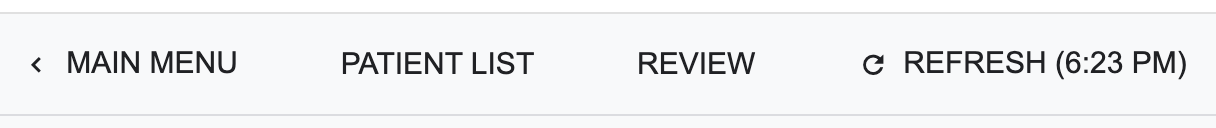
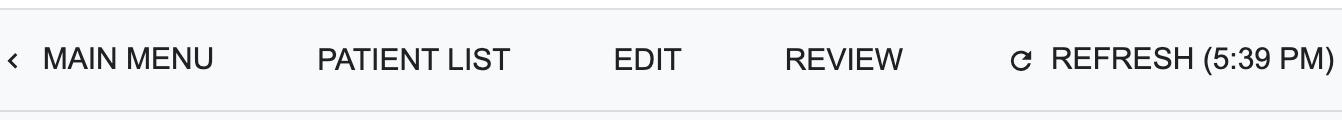
scaffolded until patient portal

Changed region(s): [[0.0, 0.375, 1.0, 0.625], [0.0, 0.875, 1.0, 0.95], [0.0, 0.05, 1.0, 0.125]]

diff --git a/docusaurus.config.ts b/docusaurus.config.ts
@@ -15,7 +15,7 @@ const config: Config = {
   },
 
   // Set the production url of your site here
-  url: "https://manual.dryeyenet.com",
+  url: "https://documentation.dryeyenet.com",
   // Set the /<baseUrl>/ pathname under which your site is served
   // For GitHub pages deployment, it is often '/<projectName>/'
   baseUrl: "/",
@@ -138,7 +138,7 @@ const config: Config = {
           ],
         },
       ],
-      copyright: `Copyright © ${new Date().getFullYear()} My Project, Inc. Built with Docusaurus.`,
+      copyright: `Copyright © ${new Date().getFullYear()} DryEyeNet, by SmartDryEyes GmbH.`,
     },
     prism: {
       theme: prismThemes.github,

diff --git a/src/css/custom.css b/src/css/custom.css
@@ -29,6 +29,14 @@
   --docusaurus-highlighted-code-line-bg: rgba(0, 0, 0, 0.3);
 }
 
+h1 {
+  font-size: 2.35rem !important;
+}
+
+h2 {
+  font-size: 1.75rem !important;
+}
+
 .navbar__logo {
   margin-right: 1rem;
 }

diff --git a/docs/patient-management/intro.md b/docs/patient-management/intro.md
@@ -1,0 +1,30 @@
+---
+sidebar_position: 1
+sidebar_label: Intro
+---
+
+# Patient Management
+
+You can create and edit patients from more than one location within **DryEyeNet**.
+
+- **Patient Dashboard**
+
+  The most straightforward way is to go to the patient dashboard. In the bottom menu, you will find the option to add a new patient.  
+  To edit an existing patient, first select the patient; the **Edit** option will then appear in the bottom menu.
+
+  Please note that in **DryEyeNet**, each patient has their own user account for accessing the patient portal.
+
+![Main menu showing the Patient Dashboard item](/img/patient-management/patMan_maiMen_en.png)
+
+After having clicked the patient dashboard option:
+
+![Select Patient within Patient Dashboard](/img/patient-management/patMan_selPat_en.png)
+
+Once selected the patient you will have all the actions available over the patient:
+
+![Actions available over the patient](/img/patient-management/patMan_selPat_actions_en.png)
+
+- **Substeps in Workflows**
+
+  When creating a new **Base Survey**, the first step is to select an existing patient or create a new one.  
+  This provides access to the option to create a patient directly from the bottom menu.

diff --git a/docs/patient-dashboard/patient-doc.md b/docs/patient-dashboard/patient-doc.md
@@ -1,0 +1,23 @@
+---
+sidebar_position: 2
+sidebar_label: Patient Documentation
+---
+
+# Patient Documentation
+
+After clicking **Patient Documentation**, a list of all documented patient data is displayed.
+
+![Patient documentation list](/img/patient-dashboard/patDas_docList_en.png)
+
+# Document Actions
+
+Once a document is selected, a set of actions becomes available depending on the document type. These actions include:
+
+- **Review**
+- **Edit**
+
+![Patient document actions](/img/patient-dashboard/patDas_docActions_en.png)
+
+When clicking **Review**, a viewer adapted to the document type will appear, allowing you to browse the available data.
+
+![Patient document viewer](/img/patient-dashboard/patDas_docOculus_en.png)

diff --git a/docs/general-basics/core-workflows-overview.md b/docs/general-basics/core-workflows-overview.md
@@ -2,16 +2,15 @@
 sidebar_position: 2
 ---
 
-# 1.2 Core Workflows Overview
+# Core Workflows Overview
 
 **Typical operational sequence:**
 
-1. Identify or create the patient
+1. Patient Management
 2. Perform New base survey
 3. Perform New base Exam
-4. Import or request connected device and/or additional documents
-5. Create or request a treatment plan (role-based)
-6. Document treatment
-7. Use Dashboard to review/edit data
+4. Create or request a treatment plan (role-based)
+5. Document treatment
+6. Use Dashboard to review/edit data
 
 _In many clinics, questionnaires (especially OSDI) are completed by the patient via the Patient Portal before the visit._

diff --git a/docs/patient-dashboard/intro.md b/docs/patient-dashboard/intro.md
@@ -1,0 +1,17 @@
+---
+sidebar_position: 1
+sidebar_label: Intro
+---
+
+# Patient Dashboard
+
+Within the **Patient Dashboard**, you have access to all actions that can be performed for a patient:
+
+- **Edit patient**
+- **Invite to the Patient Portal**
+- **View patient documentation**
+- **Request treatment plan**
+
+By clicking an action, it is either performed directly or a new screen is opened with the corresponding action selected.
+
+![Actions available in the bottom menu](/img/patient-dashboard/patDas_actions_en.png)

diff --git a/docs/general-basics/getting-started.md b/docs/general-basics/getting-started.md
@@ -2,15 +2,15 @@
 sidebar_position: 3
 ---
 
-# 1.3 Getting Started
+# Getting Started
 
-## 1.3.1 Sign In
+## Sign In
 
 Open the DryEyeNet URL: [https://dryeyenet.smartdryeyes.net/](https://dryeyenet.smartdryeyes.net/) in a supported browser, enter your credentials, and sign in.
 
 ![Sign in screen](/img/general-basics/sign-in.png)
 
-## 1.3.2 Main Menu
+## Main Menu
 
 After signing in, you land on the Main Menu. The tiles shown depend on your role and your office context.
 

diff --git a/docs/patient-portal/intro.md b/docs/patient-portal/intro.md
@@ -1,0 +1,12 @@
+---
+sidebar_position: 1
+sidebar_label: Intro
+---
+
+# Patient Portal
+
+In **DryEyeNet**, patients can provide information and review all their documentation, saving time and streamlining the documentation workflow.
+
+This can be done through the **DryEyeNet Patient Portal**.
+
+![Patient portal Home](/img/patient-portal/patPor_home_en.png)

diff --git a/docs/patient-management/edit-patient.md b/docs/patient-management/edit-patient.md
@@ -1,0 +1,10 @@
+---
+sidebar_position: 3
+sidebar_label: Edit Patient Demographics
+---
+
+# Edit Patient Demographics
+
+After having clicked edit patient in the patient dashboard bottom menu with a patient selected:
+
+![Create new patient](/img/patient-management/patMan_ediPat_en.png)

diff --git a/docs/patient-management/create-patient.md b/docs/patient-management/create-patient.md
@@ -1,0 +1,10 @@
+---
+sidebar_position: 2
+sidebar_label: Create a Patient
+---
+
+# Create a Patient from the Dashboard
+
+After having clicked add patient in the patient dashboard bottom menu:
+
+![Create new patient](/img/patient-management/patMan_addPat_en.png)

diff --git a/docs/general-basics/key-concepts.md b/docs/general-basics/key-concepts.md
@@ -2,7 +2,7 @@
 sidebar_position: 1
 ---
 
-# 1.1 Key Concepts
+# Key Concepts
 
 DryEyeNet organizes work into guided flows we call **workflows**:
 
